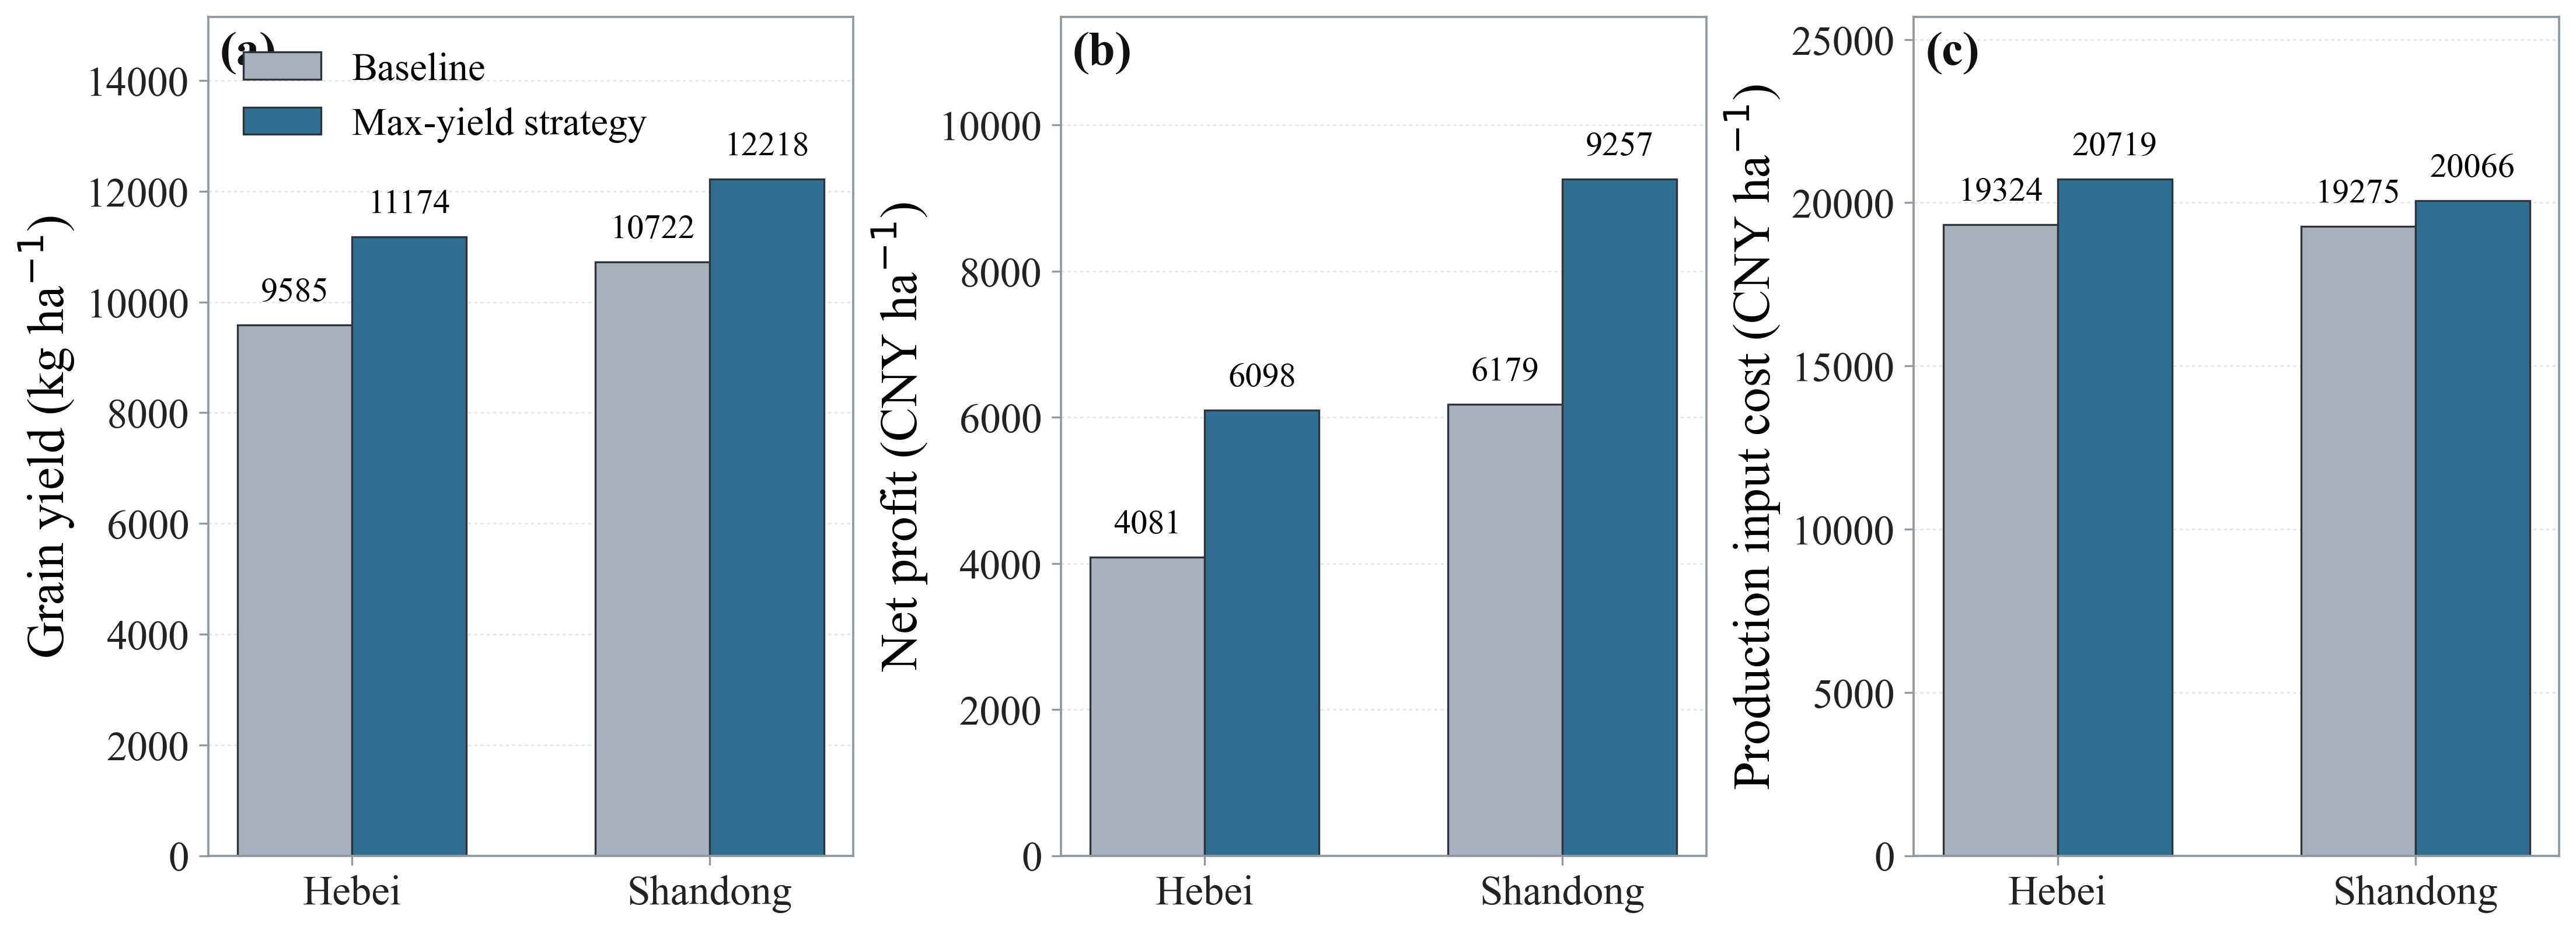
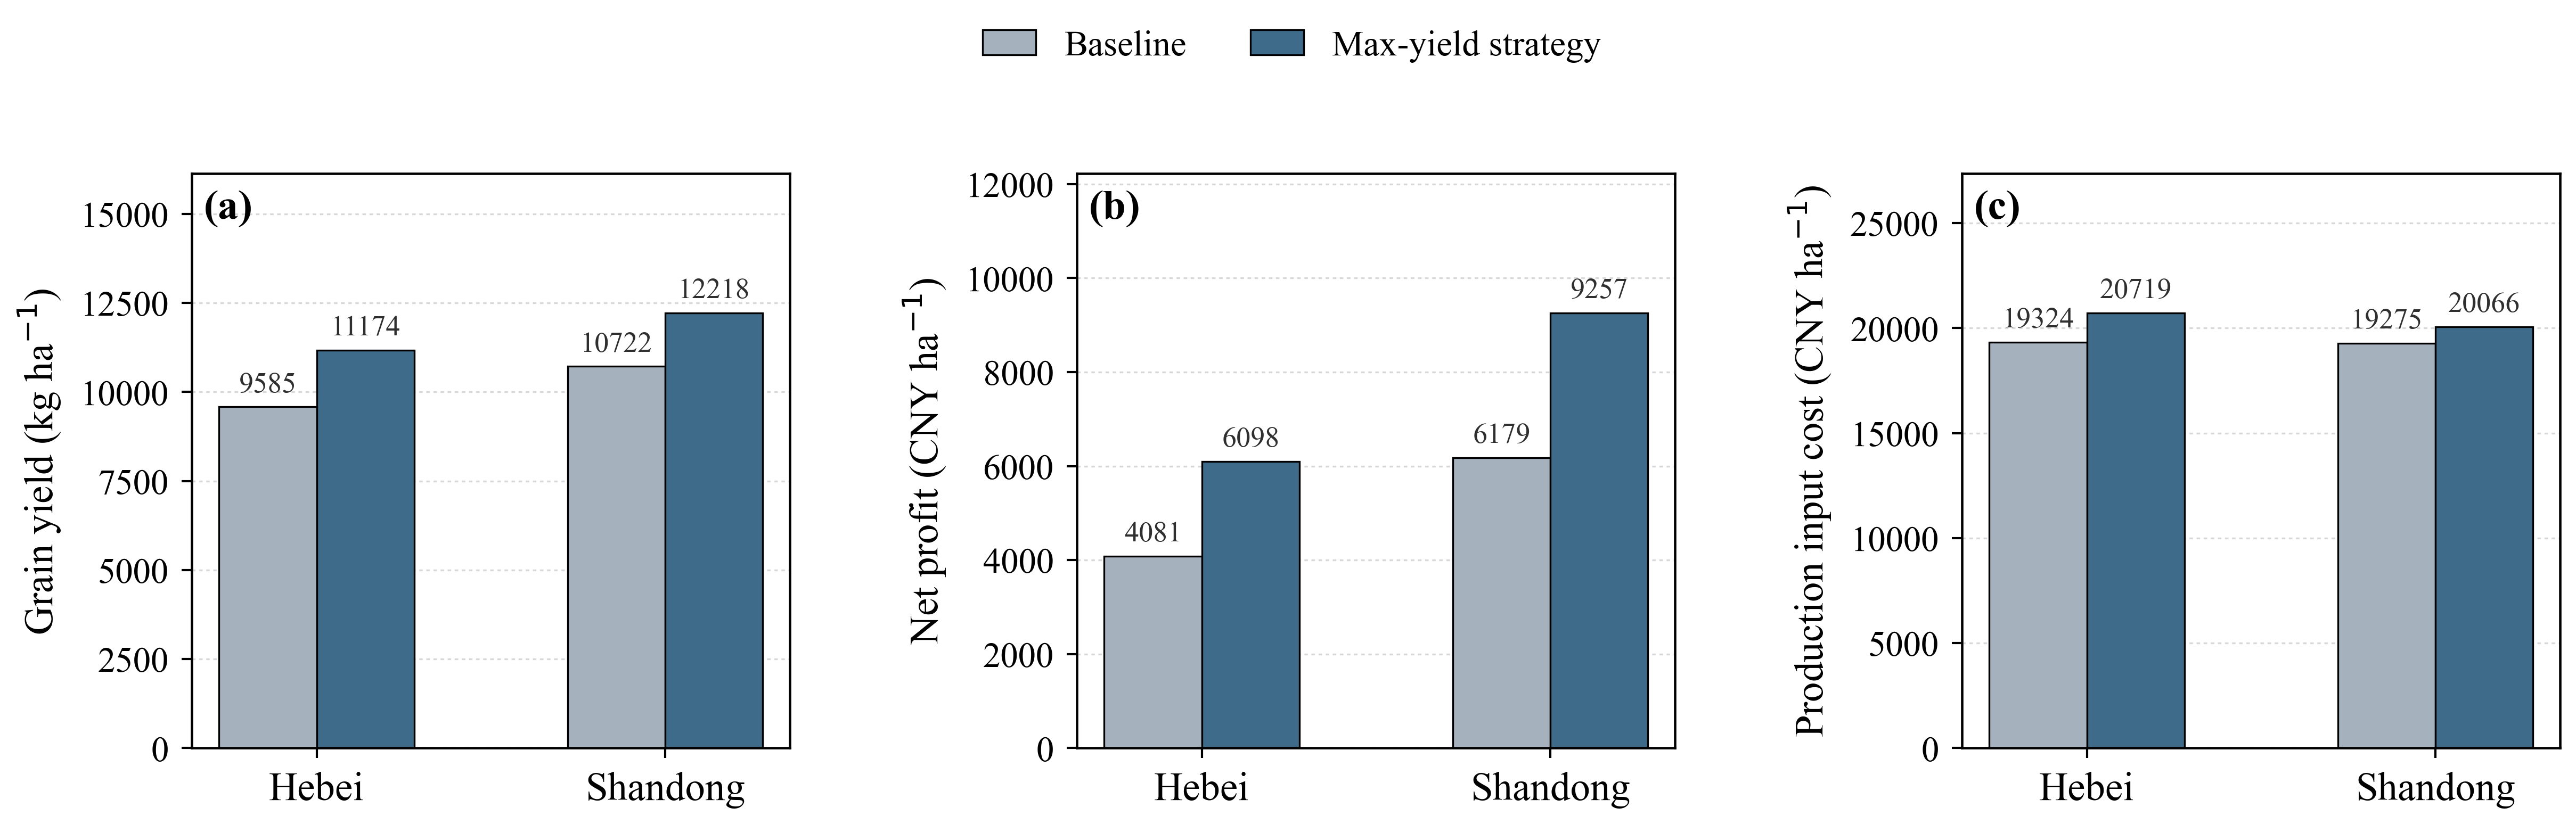
Update Precision Agriculture submission package

diff --git a/scripts/update_manuscript_for_pa.py b/scripts/update_manuscript_for_pa.py
@@ -571,8 +571,7 @@ DECLARATIONS = [
         [
             (
                 "This work was funded by Longping Kaihong Agricultural Technology "
-                "(Beijing) Co., Ltd. (\u9686\u5e73\u5f00\u9e3f(\u5317\u4eac)"
-                "\u519c\u4e1a\u79d1\u6280\u6709\u9650\u516c\u53f8). The authors "
+                "(Beijing) Co., Ltd. The authors "
                 "gratefully acknowledge financial support from the Key Research "
                 "and Development Program of Shaanxi (Grant No. 2023-ZDLNY-64).",
                 False,
@@ -623,8 +622,8 @@ DECLARATIONS = [
                 "Ming Tian, Dengke Cao, and Yan Zhao contributed to field "
                 "investigation, data collection, data curation, and resources. "
                 "Zhiming Xia wrote the first draft of the manuscript. Bin Chen, "
-                "Qi Shen, Zeyun Liang, Ming Tian, Dengke Cao, Yan Zhao, Haijing "
-                "Shi, Qiang Yu, and Gang Zhao reviewed and edited the manuscript. "
+                "Qi Shen, Zeyun Liang, Ming Tian, Dengke Cao, Yan Zhao, Changqing "
+                "Yan, Haijing Shi, Qiang Yu, and Gang Zhao reviewed and edited the manuscript. "
                 "Qiang Yu and Gang Zhao supervised the work and contributed to funding "
                 "acquisition. All authors read and approved the final manuscript.",
                 False,
@@ -905,7 +904,7 @@ FIELD_MEASUREMENT_BLOCK = [
         "At maize maturity, grain yield was estimated from field sampling. Grain "
         "yield (Y, kg ha\u207b\u00b9) was calculated as:"
     ),
-    ("Y = HEN \u00d7 KNE \u00d7 TKW / 1,000,000"),
+    ("Y = (HEN \u00d7 KNE \u00d7 TKW) / 1,000,000     (1)"),
     (
         "where HEN is harvested ear number per hectare, KNE is average kernel "
         "number per ear, and TKW is 1000-kernel weight (g). The number of "
@@ -920,7 +919,7 @@ FIELD_MEASUREMENT_BLOCK = [
         "At each sampling point, harvested ear number per hectare was calculated "
         "as:"
     ),
-    ("HEN = 10,000 / (PS \u00d7 RS)"),
+    ("HEN = 10,000 / (PS \u00d7 RS)     (2)"),
     (
         "where PS and RS are plant spacing and row spacing (m), respectively. "
         "Average kernel number per ear was estimated from 20 consecutive ears, "
@@ -935,7 +934,7 @@ FIELD_MEASUREMENT_BLOCK = [
         "calculated after yield prediction rather than being used as a model "
         "input:"
     ),
-    ("Profit = p \u00d7 Y - C"),
+    ("Profit = p \u00d7 Y \u2212 C     (3)"),
     (
         "where Profit is net return (CNY ha\u207b\u00b9), p is maize grain price "
         "(CNY kg\u207b\u00b9), Y is grain yield (kg ha\u207b\u00b9), and C is total input "
@@ -958,11 +957,11 @@ MODEL_EVALUATION_BLOCK = [
         "and validation sets using the coefficient of determination (R\u00b2) and "
         "root mean square error (RMSE):"
     ),
-    ("R\u00b2 = 1 - sum((y_i - yhat_i)^2) / sum((y_i - ybar)^2)"),
-    ("RMSE = sqrt(sum((y_i - yhat_i)^2) / n)"),
+    ("R\u00b2 = 1 \u2212 \u03a3(y\u1d62 \u2212 \u0177\u1d62)\u00b2 / \u03a3(y\u1d62 \u2212 \u0233)\u00b2     (4)"),
+    ("RMSE = \u221a[\u03a3(y\u1d62 \u2212 \u0177\u1d62)\u00b2 / n]     (5)"),
     (
-        "where y_i and yhat_i are the observed and predicted yields for "
-        "observation i, respectively, ybar is the mean observed yield, and n is "
+        "where y\u1d62 and \u0177\u1d62 are the observed and predicted yields for "
+        "observation i, respectively, \u0233 is the mean observed yield, and n is "
         "the number of observations in the evaluated split. The final model for "
         "scenario analysis was selected primarily according to validation "
         "performance, while also considering the gap between training and "
@@ -1032,6 +1031,7 @@ def set_author_line(p):
         ("Ming Tian", "2", ", "),
         ("Dengke Cao", "3", ", "),
         ("Yan Zhao", "4", ", "),
+        ("Changqing Yan", "5", ", "),
         ("Haijing Shi", "1", ", "),
         ("Qiang Yu", "1", ", "),
         ("Gang Zhao", "1,*", ""),
@@ -1478,14 +1478,7 @@ def main():
         set_title_text(title_p)
 
         author_p = next(p for p in children if p.tag == W + "p" and paragraph_text(p).startswith("Zhiming Xia"))
-        set_paragraph_text(
-            author_p,
-            [(
-                "Zhiming Xia1, Bin Chen1, Qi Shen2, Zeyun Liang2, Ming Tian2, "
-                "Dengke Cao3, Yan Zhao4, Haijing Shi1, Qiang Yu1, Gang Zhao1,*",
-                False,
-            )],
-        )
+        set_author_line(author_p)
 
         for p in children:
             if p.tag != W + "p":

diff --git a/ms/submission_package/README_submission.md b/ms/submission_package/README_submission.md
@@ -1,22 +1,16 @@
 # Precision Agriculture Submission Package
 
-Manuscript title: Quantifying Yield and Profit Improvement Potential of Maize through Management Optimization under Current Farming Conditions in the North China Plain of China
+Prepared for submission to *Precision Agriculture*.
 
-Journal: Precision Agriculture
+## Files
 
-## Upload Files
+- `manuscript_PA_submission_ready.docx`: main manuscript for submission.
+- `figures/Fig1.png` to `figures/Fig11.png`: figure files matching the manuscript captions.
+- `cover_letter/cover_letter_precision_agriculture.docx`: cover letter.
+- `submission_interface_text.md`: text prepared for the journal submission interface.
 
-- `manuscript.docx` - main manuscript with title page, structured abstract, embedded figures, tables, captions, statements and declarations, and references.
-- `cover_letter/cover_letter_precision_agriculture.docx` - cover letter.
-- `figures/Fig1.png` through `figures/Fig11.png` - separate electronic figure files, named according to Springer guidance.
+## Notes
 
-## Submission Interface Text
-
-Some Springer fields must be entered manually in the submission interface even when they are also present in the manuscript. Use `submission_interface_text.md` for paste-ready text.
-
-## Final Checks Before Upload
-
-- Confirm author order and affiliations in the submission system match the manuscript.
-- Confirm ORCID iDs, if available.
-- Confirm the funding statement and whether a grant number exists.
-- Confirm all figure files render correctly in the submission preview.
+- No supplementary material is included. The methods information has been integrated into the manuscript, and the manuscript contains no citations to supplementary material or Online Resource files.
+- The manuscript title page includes the full author list, affiliations, and corresponding-author information.
+- The manuscript text is formatted in Times New Roman with black text, continuous line numbering, and double line spacing.

diff --git a/ms/submission_package/submission_interface_text.md b/ms/submission_package/submission_interface_text.md
@@ -4,13 +4,17 @@
 
 Original Paper
 
-## Corresponding Author
+## Cover Letter
 
-Gang Zhao, Northwest A&F University. Email: [email redacted]
+Use `cover_letter/cover_letter_precision_agriculture.docx`.
+
+## Supplementary Material
+
+No supplementary material is submitted. The methods information has been integrated into the manuscript, and the manuscript contains no citations to supplementary material or Online Resource files.
 
 ## Funding
 
-This work was funded by Longping Kaihong Agricultural Technology (Beijing) Co., Ltd. (隆平开鸿(北京)农业科技有限公司). The authors gratefully acknowledge financial support from the Key Research and Development Program of Shaanxi (Grant No. 2023-ZDLNY-64).
+This work was funded by Longping Kaihong Agricultural Technology (Beijing) Co., Ltd. The authors gratefully acknowledge financial support from the Key Research and Development Program of Shaanxi (Grant No. 2023-ZDLNY-64).
 
 ## Competing Interests
 
@@ -24,13 +28,13 @@ Not applicable. This study used crop-management and field-observation data and d
 
 Not applicable.
 
-## Consent to Publish
+## Consent for Publication
 
 All authors have approved the manuscript and consent to its publication.
 
 ## Data Availability
 
-The data that support the findings of this study are available from the corresponding author upon reasonable request. The authors are encouraged to deposit the minimal dataset needed to reproduce the results in a suitable public repository before publication, if permitted by data ownership and privacy conditions.
+The data that support the findings of this study are available from the corresponding author upon reasonable request.
 
 ## Code Availability
 
@@ -38,4 +42,4 @@ The analysis code used to generate the model outputs, optimization outputs, and 
 
 ## Author Contributions
 
-Zhiming Xia, Bin Chen, Haijing Shi, Qiang Yu, and Gang Zhao contributed to the study conception and design. Zhiming Xia and Bin Chen performed the methodology development, data analysis, model construction, optimization analysis, and visualization. Qi Shen, Zeyun Liang, Ming Tian, Dengke Cao, and Yan Zhao contributed to field investigation, data collection, data curation, and resources. Zhiming Xia wrote the first draft of the manuscript. Bin Chen, Qi Shen, Zeyun Liang, Ming Tian, Dengke Cao, Yan Zhao, Haijing Shi, Qiang Yu, and Gang Zhao reviewed and edited the manuscript. Qiang Yu and Gang Zhao supervised the work and contributed to funding acquisition. All authors read and approved the final manuscript.
+Zhiming Xia, Bin Chen, Haijing Shi, Qiang Yu, and Gang Zhao contributed to the study conception and design. Zhiming Xia and Bin Chen performed the methodology development, data analysis, model construction, optimization analysis, and visualization. Qi Shen, Zeyun Liang, Ming Tian, Dengke Cao, and Yan Zhao contributed to field investigation, data collection, data curation, and resources. Zhiming Xia wrote the first draft of the manuscript. Bin Chen, Qi Shen, Zeyun Liang, Ming Tian, Dengke Cao, Yan Zhao, Changqing Yan, Haijing Shi, Qiang Yu, and Gang Zhao reviewed and edited the manuscript. Qiang Yu and Gang Zhao supervised the work and contributed to funding acquisition. All authors read and approved the final manuscript.

diff --git a/docs/authors.md b/docs/authors.md
@@ -4,7 +4,8 @@ Qi Shen,
 Zeyun Liang,
 Ming Tian,
 Dengke Cao,河北灵囿园林绿化工程有限公司,[email redacted]
-Yanyan Zhao,河北正定浩琳家庭农场,[email redacted]
+Yan Zhao,河北正定浩琳家庭农场,[email redacted]
+Changqing Yan, College of Intelligent Equipment, Shandong University of Science and Technology, Taian 271019, China
 Haijing Shi,
 Qiang Yu,
 Gang Zhao

diff --git a/docs/cover_letter_precision_agriculture.md b/docs/cover_letter_precision_agriculture.md
@@ -1,4 +1,4 @@
-May 2, 2026
+May 3, 2026
 
 Dear Editor,
 